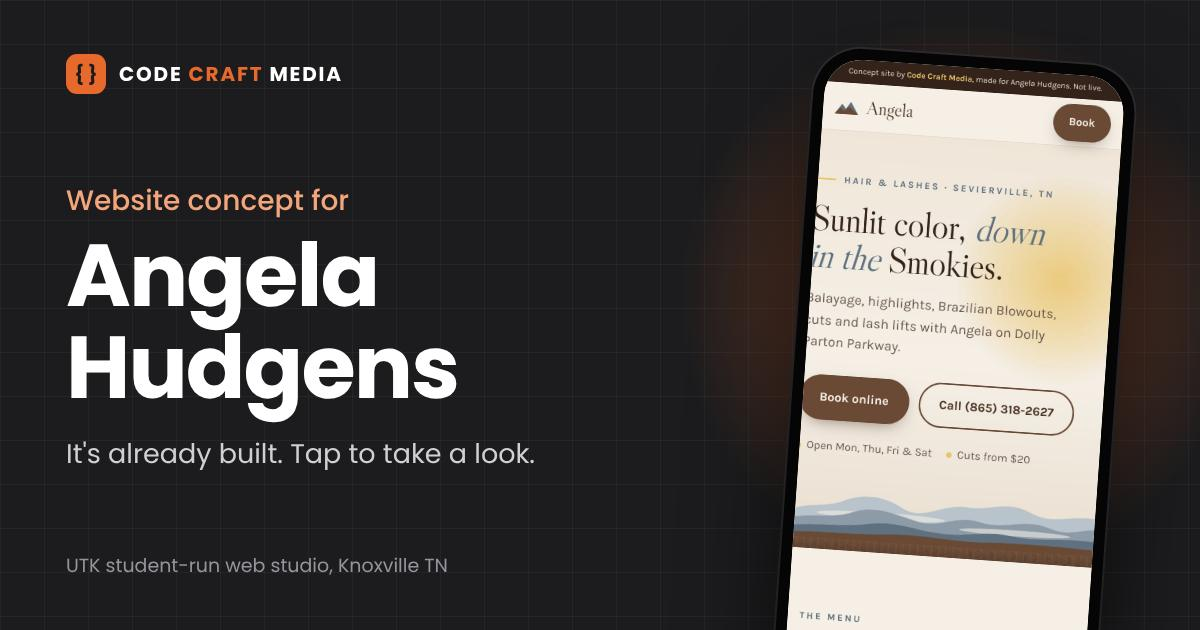
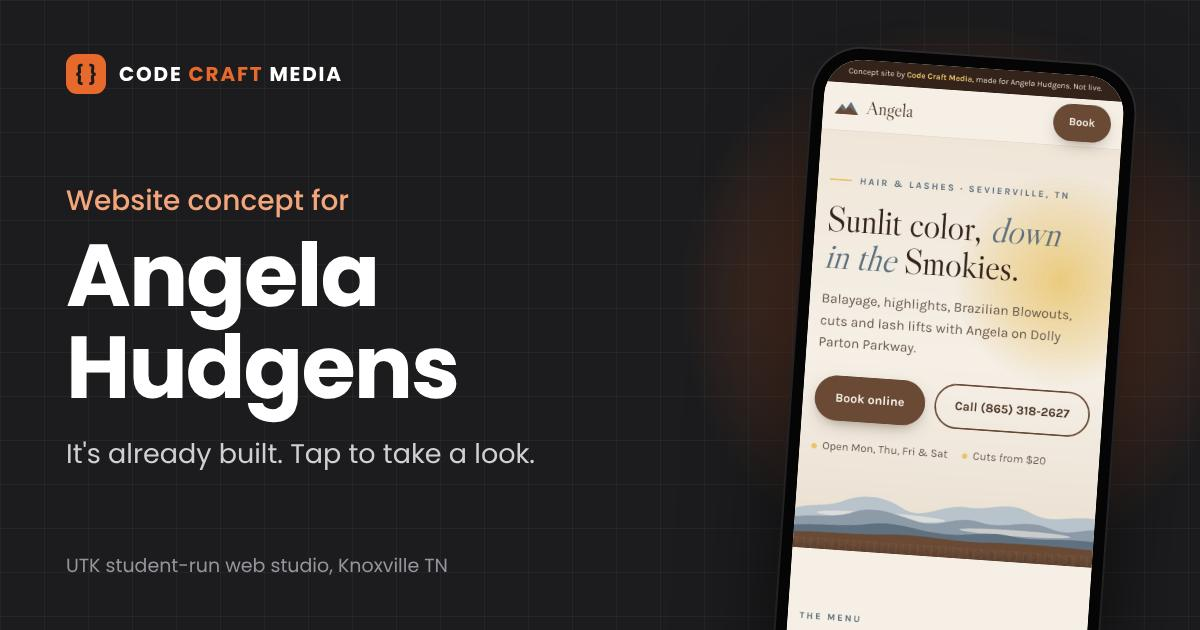
By-eye fixes with real fonts on 7 demos (hidden headings, text over art, edge padding, button over heading)
Claude-Session: https://claude.ai/code/session_01UadETyvqugEyvWpDbFKFwB

Changed region(s): [[0.6475, 0.3317, 0.8942, 0.754], [0.6783, 0.2714, 0.8325, 0.3016], [0.8325, 0.3016, 0.8942, 0.3317]]

diff --git a/alter-ego-tattoo/index.html b/alter-ego-tattoo/index.html
@@ -185,7 +185,8 @@ footer .credit{color:var(--muted);font-family:var(--mono);font-size:.68rem;lette
 .js-reveal .draw.in path,.js-reveal .draw.in circle,.js-reveal .draw.in line{animation:draw 2.2s ease forwards}
 @keyframes draw{from{stroke-dashoffset:600}to{stroke-dashoffset:0}}
 </style>
-<!-- cc-og h=752afeea60 -->
+<style>/* eye fix 11/25: under 900px the hero line drawing showed at full strength on top of the kicker and tagline, because the scroll-reveal rule (.rv.in, opacity 1) beat its faint .11 backdrop opacity */ @media(max-width:899px){.js-reveal .hero-art.rv.in{opacity:.11}} @media(max-width:899px) and (prefers-reduced-motion:reduce){.js-reveal .hero-art.rv{opacity:.11}} </style>
+<!-- cc-og h=d6c3ed6e05 -->
 <meta property="og:type" content="website">
 <meta property="og:site_name" content="Code Craft Media">
 <meta property="og:title" content="Alter Ego Tattoo &amp; Piercing | website concept">

diff --git a/angela-hudgens-hair-sevierville/index.html b/angela-hudgens-hair-sevierville/index.html
@@ -179,7 +179,8 @@ footer a{color:var(--butter);text-decoration:none}
 @media(prefers-reduced-motion:reduce){*{animation:none!important;transition:none!important}.js .reveal:not(.in){opacity:1;transform:none}}
 a:focus-visible{outline:3px solid var(--butter);outline-offset:3px}
 </style>
-<!-- cc-og h=615d0df283 -->
+<style>/* eye fix 11/25: on phones (390px) and every width under about 1160px the hero headline, text and Book button sat flush against the left screen edge, because .hero-inner's padding shorthand wiped out the 20px side padding of .wrap. Wider screens are unchanged */ @media(max-width:1159px){.hero-inner{padding-left:20px;padding-right:20px}} </style>
+<!-- cc-og h=a0089cff24 -->
 <meta property="og:type" content="website">
 <meta property="og:site_name" content="Code Craft Media">
 <meta property="og:title" content="Angela Hudgens | website concept">

diff --git a/charles-barbershop-hendersonville/index.html b/charles-barbershop-hendersonville/index.html
@@ -44,7 +44,8 @@ h2{font-family:Oswald,Impact,sans-serif;text-transform:uppercase;font-size:30px;
 footer{text-align:center;padding:28px 20px 40px;color:var(--mut);font-size:14px}
 @media(min-width:860px){.hero{padding:90px 40px 70px}.pole{right:12%;height:420px;width:70px}.cols{display:grid;grid-template-columns:1.2fr 1fr;gap:40px}.grid{grid-template-columns:repeat(3,1fr)}}
 </style>
-<!-- cc-og h=55116aae88 -->
+<style>/* eye fix 11/25: the inline "Book on Square" button's padding rode up over the "Book" card heading at every width; make it a block-level box so it sits under the heading */ .card .btn{display:inline-block}</style>
+<!-- cc-og h=68c9a814e2 -->
 <meta property="og:type" content="website">
 <meta property="og:site_name" content="Code Craft Media">
 <meta property="og:title" content="Charles Barbershop | website concept">

diff --git a/angel-cuttt-cleveland/index.html b/angel-cuttt-cleveland/index.html
@@ -48,7 +48,8 @@ h1{text-transform:uppercase;font-weight:700;letter-spacing:-.01em}h1 span{color:
 .piece{position:absolute;right:-10px;top:10px;width:120px;opacity:.16;pointer-events:none}
 @media(min-width:760px){.piece{width:260px;right:0}}
 </style>
-<!-- cc-og h=10c7fb13bb -->
+<style>/* eye fix 11/25: on phones (390px) and tablets (about 760 to 900px) the see-through puzzle-piece decoration was drawn on top of the headline and tinted the last letters of "PIECE" pink; the headline and kicker now paint above it. No change where they do not overlap (1440px) */ .hero h1,.hero .kicker{position:relative;z-index:1} </style>
+<!-- cc-og h=5ab15506d3 -->
 <meta property="og:type" content="website">
 <meta property="og:site_name" content="Code Craft Media">
 <meta property="og:title" content="Angel cuttt | website concept">

diff --git a/amy-phillips-hair-chattanooga/index.html b/amy-phillips-hair-chattanooga/index.html
@@ -46,7 +46,8 @@ h2{font-family:'Libre Caslon Text',serif;font-weight:400;font-size:36px;line-hei
 footer{text-align:center;color:var(--mut);padding:30px 22px 50px;font-size:13px}
 @media(min-width:860px){.grid{grid-template-columns:1fr 1fr}.visit{grid-template-columns:1fr 1fr}}
 </style>
-<!-- cc-og h=08c19843f8 -->
+<style>/* eye fix 11/25: on desktop (seen at 1440px) the hero wave drawing stopped about 130px short of the right edge with a hard vertical cut, because the svg kept its own width instead of filling the hero */ @media(min-width:700px){.waves{min-width:120%}} </style>
+<!-- cc-og h=d2c08893eb -->
 <meta property="og:type" content="website">
 <meta property="og:site_name" content="Code Craft Media">
 <meta property="og:title" content="Amy Phillips at 3Eleven Collective | website concept">

diff --git a/all-pro-auto-detailing/audit/index.html b/all-pro-auto-detailing/audit/index.html
@@ -58,6 +58,7 @@ footer{text-align:center;color:var(--muted);font-size:13px;padding:22px 0 34px}
 @media(min-width:720px){h1{font-size:38px}header.hero{padding:28px 0 46px}.card{padding:22px 24px 20px}.row,.fix{margin-left:40px;padding-left:0}.row{margin-left:40px}.cta{padding:32px 34px}.btn{display:inline-block}}
 @media(min-width:720px){.row{padding-left:0}}
 </style>
+<style>/* eye fix 11/25: at 720px and wider the tinted "Quick fix" boxes lost their left padding (.row,.fix{padding-left:0}), so the text sat flush against the box edge */ @media(min-width:720px){.fix{padding-left:12px}} </style>
 <!-- cc-og h=17d6e56a6c -->
 <meta property="og:type" content="website">
 <meta property="og:site_name" content="Code Craft Media">

diff --git a/archangel-custom-ink/index.html b/archangel-custom-ink/index.html
@@ -304,7 +304,8 @@ footer{background:#000;border-top:1px solid var(--line);padding:56px var(--gutte
   .orb .o-arc{stroke-dasharray:var(--arc) 1000}
 }
 </style>
-<!-- cc-og h=73f12a941e -->
+<style>/* eye fix 11/25: the five section headings (h2.clip) stayed fully clipped and never appeared in Chrome at any width, leaving a blank gap under each section label; show them without the clip reveal */ .clip{clip-path:none}</style>
+<!-- cc-og h=d669517a02 -->
 <meta property="og:type" content="website">
 <meta property="og:site_name" content="Code Craft Media">
 <meta property="og:title" content="Archangel Custom Ink | website concept">
